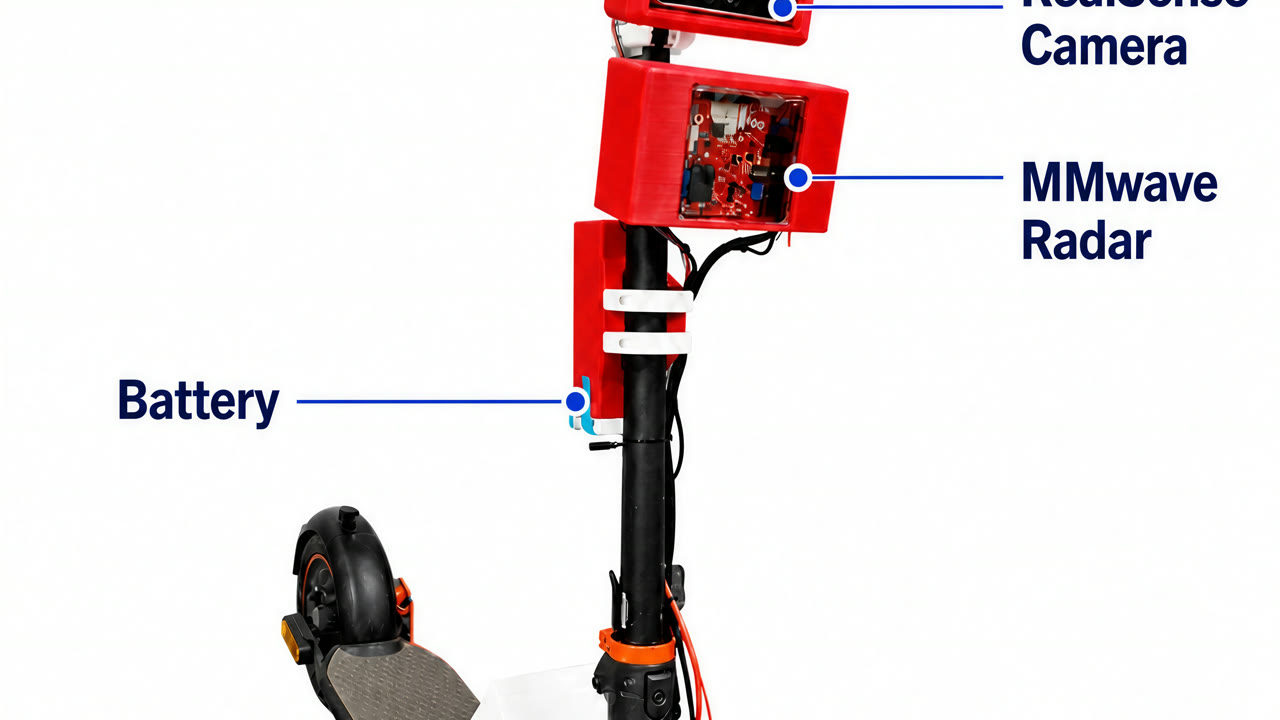
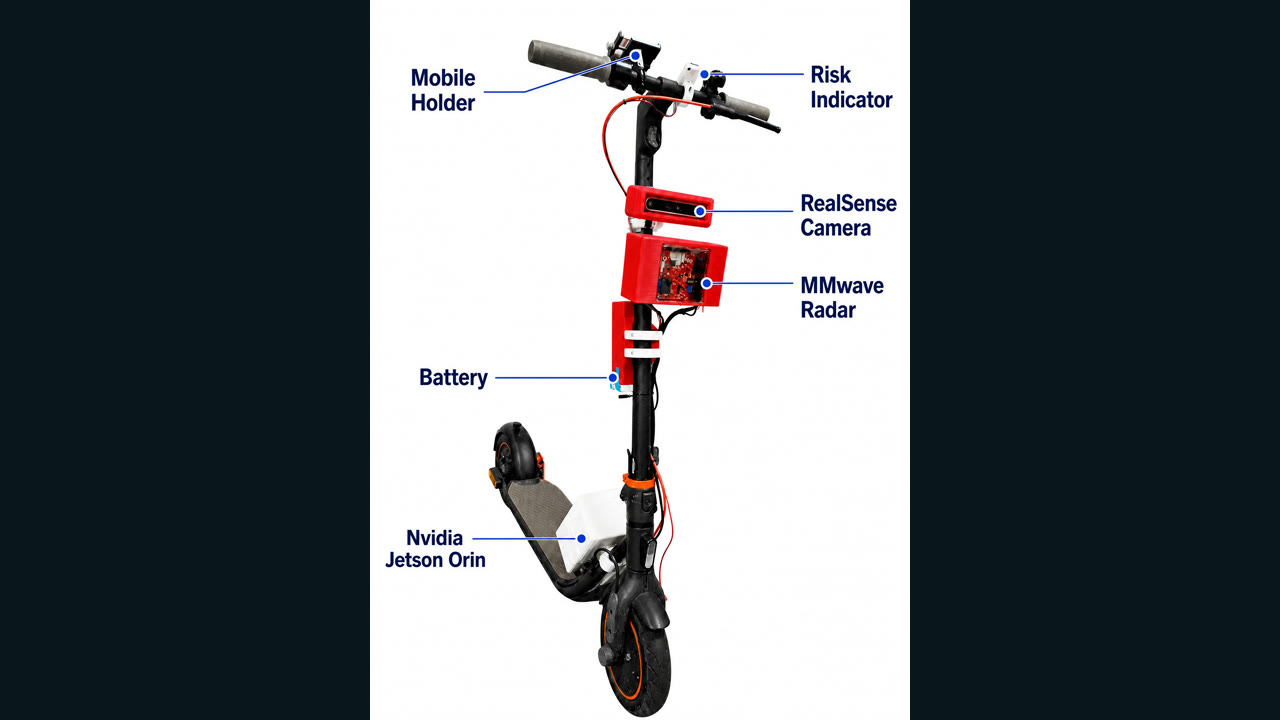
video_updates

diff --git a/index.html b/index.html
@@ -9,6 +9,9 @@
 <link rel="preconnect" href="https://fonts.gstatic.com" crossorigin>
 <link rel="icon" type="image/gif" href="assets/img/logo_icon.gif">
 <link rel="preload" as="image" href="assets/img/scooter_photo_card.jpg" fetchpriority="high">
+<link rel="preload" as="image" href="assets/img/scan_0_654_poster.jpg">
+<link rel="preload" as="image" href="assets/img/perfect_data_chunck_poster.jpg">
+<link rel="preload" as="image" href="assets/img/Night_Rain_Data_Chunck_poster.jpg">
 <link href="https://fonts.googleapis.com/css2?family=Space+Grotesk:wght@400;500;600;700&family=Source+Sans+3:ital,wght@0,400;0,500;0,600;1,400&family=JetBrains+Mono:wght@400;500&display=swap" rel="stylesheet">
 <style>
   :root{
@@ -290,12 +293,15 @@
   }
   .demo-thumb img,
   .demo-thumb video{
-    width:100%;height:100%;object-fit:cover;object-position:center;
+    width:100%;height:100%;object-fit:contain;object-position:center;
     display:block;opacity:1;pointer-events:none;background:#0A151D;
   }
-  .demo-thumb img{
-    image-rendering:auto;
+  .demo-thumb video.is-ready{object-fit:cover}
+  .demo-thumb .demo-poster{
+    position:absolute;inset:0;width:100%;height:100%;object-fit:cover;
+    transition:opacity .25s ease;
   }
+  .demo-thumb.is-playing .demo-poster{opacity:0;pointer-events:none}
   .demo-thumb.zoomable::after{content:"Expand"}
   .demo-thumb[data-video-play].zoomable::after{content:"Play"}
   .play{position:absolute;inset:0;display:flex;align-items:center;justify-content:center;pointer-events:none;opacity:.45;transition:opacity .2s ease}
@@ -761,7 +767,8 @@
           data-video-src="assets/vid/scan_0_654.mp4"
           data-caption="Real-Time Multimodal Hazard Assessment"
           aria-label="Play real-time multimodal hazard assessment demo">
-          <video src="assets/vid/scan_0_654.mp4" muted autoplay loop playsinline preload="metadata" aria-hidden="true"></video>
+          <img class="demo-poster" src="assets/img/scan_0_654_poster.jpg" alt="" width="960" height="540" loading="eager" decoding="async">
+          <video muted loop playsinline preload="none" data-src="assets/vid/scan_0_654.mp4" aria-hidden="true"></video>
           <div class="play" aria-hidden="true"><span><svg width="18" height="18" viewBox="0 0 24 24" fill="#3ED6C4"><path d="M8 5v14l11-7z"/></svg></span></div>
         </button>
         <div class="demo-info">
@@ -775,7 +782,8 @@
           data-video-src="assets/vid/perfect_data_chunck.mp4"
           data-caption="Daytime Two-Wheeler Safety Monitoring"
           aria-label="Play daytime two-wheeler safety monitoring demo">
-          <video src="assets/vid/perfect_data_chunck.mp4" muted autoplay loop playsinline preload="metadata" aria-hidden="true"></video>
+          <img class="demo-poster" src="assets/img/perfect_data_chunck_poster.jpg" alt="" width="960" height="540" loading="eager" decoding="async">
+          <video muted loop playsinline preload="none" data-src="assets/vid/perfect_data_chunck.mp4" aria-hidden="true"></video>
           <div class="play" aria-hidden="true"><span><svg width="18" height="18" viewBox="0 0 24 24" fill="#3ED6C4"><path d="M8 5v14l11-7z"/></svg></span></div>
         </button>
         <div class="demo-info">
@@ -789,7 +797,8 @@
           data-video-src="assets/vid/Night_Rain_Data_Chunck.mp4"
           data-caption="Night-Time Rainy-Weather Monitoring"
           aria-label="Play night-time rainy-weather monitoring demo">
-          <video src="assets/vid/Night_Rain_Data_Chunck.mp4" muted autoplay loop playsinline preload="metadata" aria-hidden="true"></video>
+          <img class="demo-poster" src="assets/img/Night_Rain_Data_Chunck_poster.jpg" alt="" width="960" height="540" loading="eager" decoding="async">
+          <video muted loop playsinline preload="none" data-src="assets/vid/Night_Rain_Data_Chunck.mp4" aria-hidden="true"></video>
           <div class="play" aria-hidden="true"><span><svg width="18" height="18" viewBox="0 0 24 24" fill="#3ED6C4"><path d="M8 5v14l11-7z"/></svg></span></div>
         </button>
         <div class="demo-info">
@@ -1091,6 +1100,45 @@
         }
       });
     });
+
+    // Fast first paint: show light posters immediately; attach/play video only when visible.
+    if('IntersectionObserver' in window){
+      var demoVideos = document.querySelectorAll('.demo-thumb video[data-src]');
+      var videoObserver = new IntersectionObserver(function(entries){
+        entries.forEach(function(entry){
+          var video = entry.target;
+          var thumb = video.closest('.demo-thumb');
+          var src = video.getAttribute('data-src');
+          if(!src) return;
+          if(entry.isIntersecting){
+            if(!video.getAttribute('src')){
+              video.src = src;
+              video.load();
+            }
+            var playPromise = video.play();
+            if(playPromise && playPromise.then){
+              playPromise.then(function(){
+                video.classList.add('is-ready');
+                if(thumb) thumb.classList.add('is-playing');
+              }).catch(function(){});
+            }
+          } else if(video.getAttribute('src')){
+            video.pause();
+          }
+        });
+      }, {rootMargin: '120px 0px', threshold: 0.15});
+      demoVideos.forEach(function(video){ videoObserver.observe(video); });
+    } else {
+      document.querySelectorAll('.demo-thumb video[data-src]').forEach(function(video){
+        video.src = video.getAttribute('data-src');
+        video.setAttribute('autoplay', '');
+        video.load();
+        video.play().catch(function(){});
+        video.classList.add('is-ready');
+        var thumb = video.closest('.demo-thumb');
+        if(thumb) thumb.classList.add('is-playing');
+      });
+    }
 
     document.getElementById('lightboxClose').addEventListener('click', closeLightbox);
     document.getElementById('lightboxPrev').addEventListener('click', function(e){ e.stopPropagation(); step(-1); });
